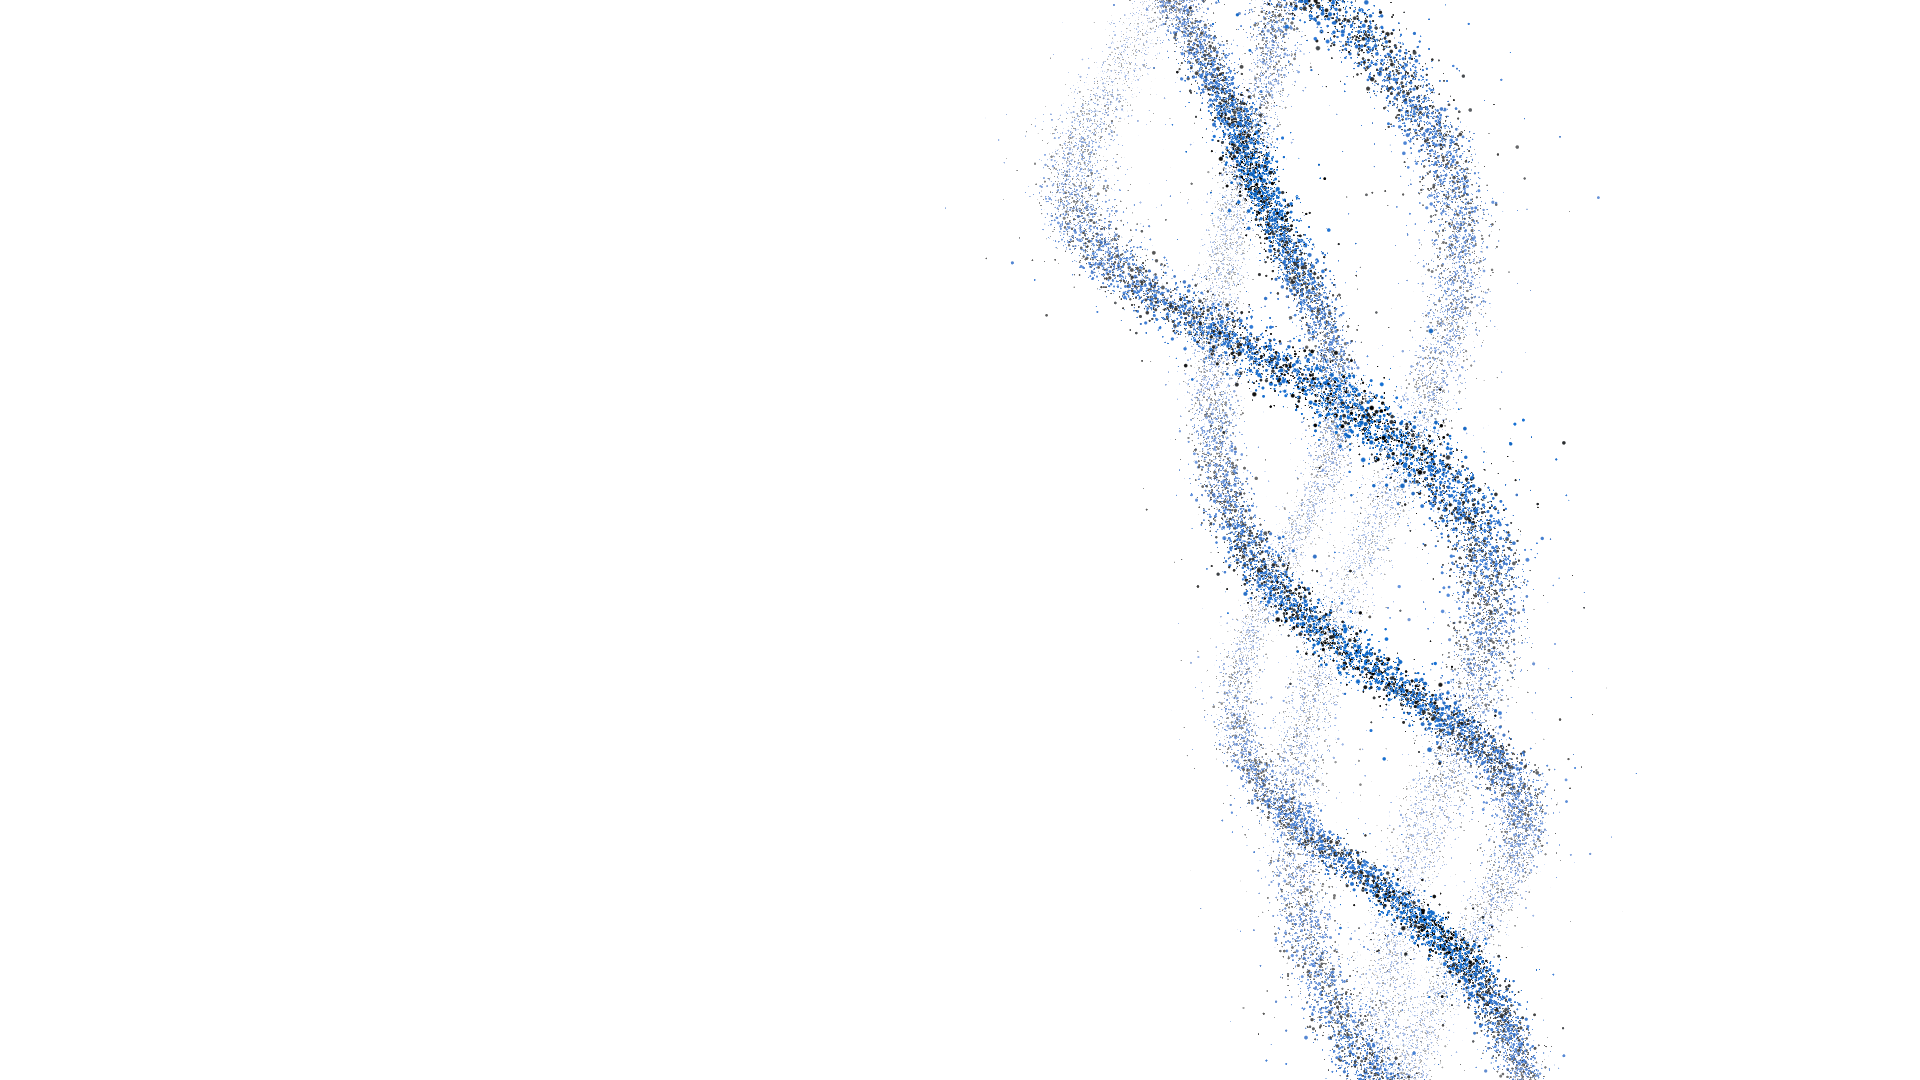
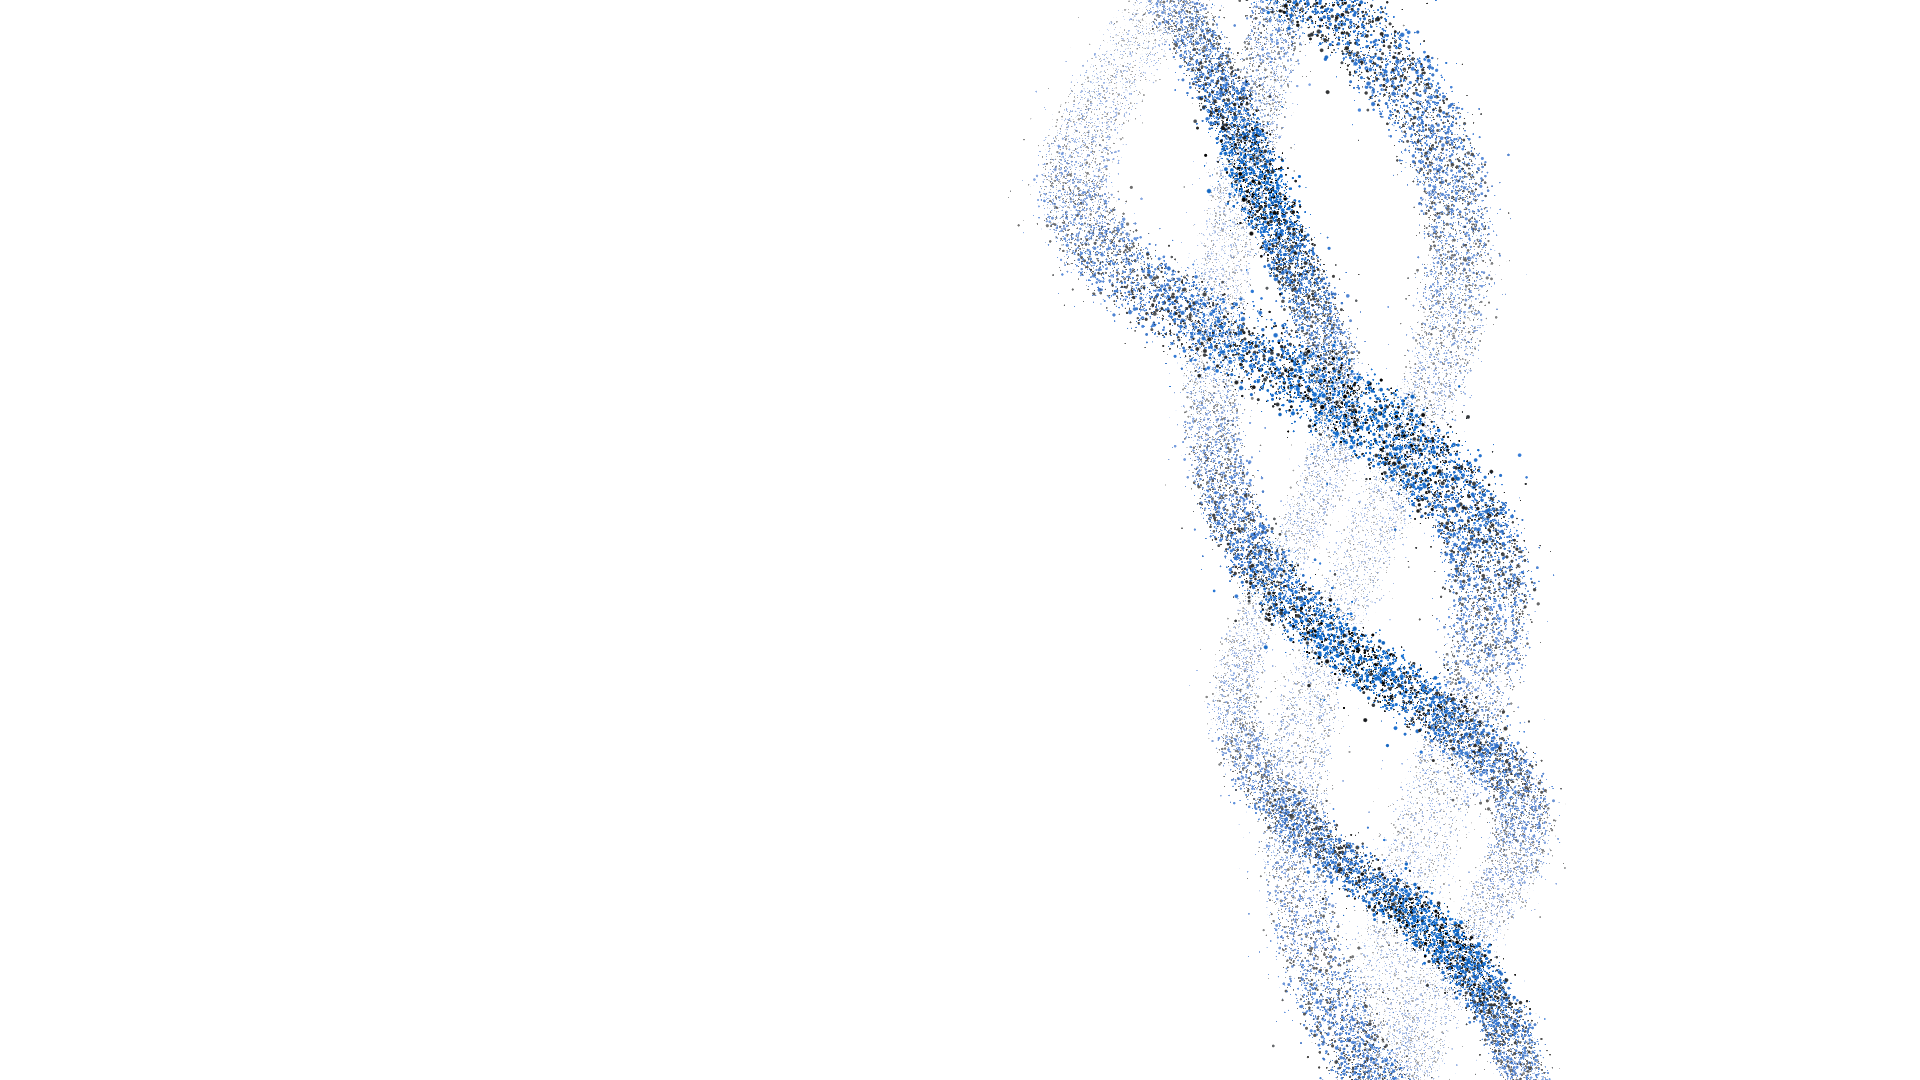
Thicker strands with sparser core
Claude-Session: https://claude.ai/code/session_01LC9PoW5GSUPN2TTK73ZPiw

Changed region(s): [[0.5312, 0.0, 0.8125, 1.0]]

diff --git a/index.html b/index.html
@@ -22,8 +22,9 @@ const CONFIG = {
   flowSpeed: 0.04,        // brzina kretanja cestica nagore
   twistSpeed: 0.9,        // brzina uvijanja linija jedna oko druge
   blueShare: 0.62,        // udeo plavih cestica (ostalo tamne) - boje su izmesane
-  particlesPerStrand: 20000,
-  thickness: 0.085,       // debljina linije
+  particlesPerStrand: 24000,
+  thickness: 0.2,         // debljina linije
+  coreHollow: 0.35,       // koliko je centar linije redji (0 = pun, 1 = skoro prazan)
   length: 12,             // duzina linija (prelaze ivice ekrana)
   blue: '#106ACA',
   dark: '#14171A',
@@ -87,8 +88,12 @@ STRANDS.forEach((st) => {
     aS[i] = Math.random();
     aStA.set([st.r, st.f, st.ph, st.spin], i * 4);
     aStB.set([st.ra, st.rk, st.wa, st.wk], i * 4);
-    const spread = CONFIG.thickness * st.thick * (Math.random() < 0.07 ? 2.8 : 1.0);
-    aOff.set([gauss() * spread, gauss() * spread * 0.6, gauss() * spread], i * 3);
+    // cestice su rasporedjene kao cev: vise ka ivicama, redje u samom centru linije
+    const spread = CONFIG.thickness * st.thick * (Math.random() < 0.06 ? 1.8 : 1.0);
+    const rad = spread * (CONFIG.coreHollow + (1 - CONFIG.coreHollow) * Math.sqrt(Math.random()));
+    const dv = new THREE.Vector3(gauss(), gauss() * 0.6, gauss()).normalize();
+    const jit = spread * 0.12;
+    aOff.set([dv.x * rad + gauss() * jit, dv.y * rad + gauss() * jit, dv.z * rad + gauss() * jit], i * 3);
     // nasumican pravac za rasipanje
     const v = new THREE.Vector3(gauss(), gauss(), gauss()).normalize();
     aRand.set([v.x, v.y, v.z, 0.4 + Math.random() * 1.2], i * 4);

diff --git a/README.md b/README.md
@@ -19,6 +19,7 @@ npx serve .
 | `twistSpeed` | brzina uvijanja linija jedna oko druge |
 | `particlesPerStrand` | gustina čestica po liniji |
 | `thickness` | debljina linije |
+| `coreHollow` | koliko je centar linije ređi |
 | `blue`, `dark`, `blueShare` | dve boje, izmešane; udeo plave |
 | `STRANDS[]` | oblik svake linije posebno (poluprečnik, gustina uvijanja, brzina, vijuganje, debljina) |
 | `mouseRadius` | koliko daleko od kursora čestice beže |
